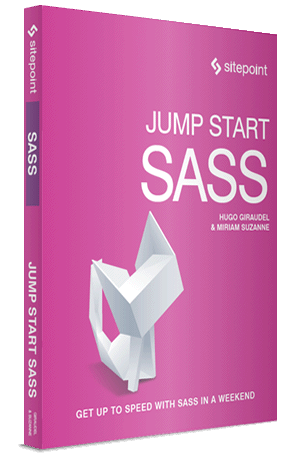
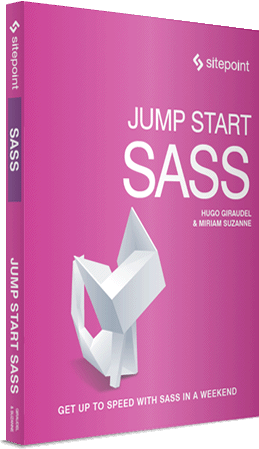
Final cleanup

diff --git a/static/sass/patterns/_buttons.scss b/static/sass/patterns/_buttons.scss
@@ -5,6 +5,7 @@
   &,
   #{$link} {
     @include font-family('alt');
+    align-items: center;
     background-color: color('background');
     background-image: none; // remove link underline when styling as button...
     border-color: color('action-border');
@@ -12,7 +13,7 @@
     border-style: solid;
     border-width: 1px;
     color: color('action');
-    display: inline-block;
+    display: inline-flex;
     font-weight: bold;
     padding: size('half-shim') 1rem;
     text-decoration: none;
@@ -29,10 +30,9 @@
     }
   }
 
-  @include after(' »') {
-    display: inline-block;
+  @include after('»') {
     font-weight: normal;
-    padding-left: size('quarter-shim');
+    padding-left: size('half-shim');
     transition: transform 250ms;
   }
 

diff --git a/static/sass/components/_contact.scss b/static/sass/components/_contact.scss
@@ -2,12 +2,20 @@
 // =======
 
 .contact-intro {
-  @include micro-clearfix;
-  margin-bottom: size('gutter');
+  align-items: center;
+  display: flex;
+
+  .bird-face {
+    display: none;
+    flex: 0 0 auto;
+
+    @include above('small-page') {
+      display: block;
+    }
+  }
 
   p {
-    &:first-of-type {
-      @include text-shadow;
-    }
+    flex: 1 1 auto;
+    margin: 0;
   }
 }

diff --git a/static/sass/components/_post-content.scss b/static/sass/components/_post-content.scss
@@ -16,13 +16,10 @@
 }
 
 .content-block-inner {
-  @supports (display: grid) {
-    grid-column: col1-start / -1;
+  grid-column: col1-start / -1;
 
-    @include above('medium-page') {
-      grid-column: col3-start / span 1;
-      max-width: size('full-content');
-    }
+  @include above('medium-page') {
+    grid-column: col3-start / span 1;
   }
 }
 

diff --git a/static/sass/components/_splash.scss b/static/sass/components/_splash.scss
@@ -89,3 +89,15 @@
 .splash-title {
   box-shadow: size('half-shim') size('half-shim') size('half-shim') color('shadow');
 }
+
+.jssass-book-cover {
+  float: left;
+  margin-right: size('pad');
+  max-width: 45%;
+}
+
+.jssass-book-summary {
+  @include above('small-page') {
+    padding-top: size('gutter');
+  }
+}

diff --git a/content/index.rst b/content/index.rst
@@ -135,32 +135,35 @@ Book: Jump Start Sass
 ---------------------
 
 .. image:: /static/images/pages/jssass.png
-   :class: extend-left size-quarter
+   :class: extend-left jssass-book-cover
 
-Sass bridges the gap between what CSS can offer
-and what we as web developers need in our daily routine.
-Using Sass, you can write your stylesheets
-in a more concise, dynamic, and readable way,
-and cut down many of the tedious repetitive tasks
-that come with writing vanilla CSS.
-Most importantly,
-Sass makes it easier to create web applications,
-takes some monotony and overhead out of writing CSS,
-and will save you time.
+.. wrap:: div
+  :class: jssass-book-summary
 
-This book,
-written by `Miriam Suzanne`_ and `Hugo Giraudel`_
-and published by `SitePoint`_,
-provides a comprehensive introduction to Sass for beginners.
+  Sass bridges the gap between what CSS can offer
+  and what we as web developers need in our daily routine.
+  Using Sass, you can write your stylesheets
+  in a more concise, dynamic, and readable way,
+  and cut down many of the tedious repetitive tasks
+  that come with writing vanilla CSS.
+  Most importantly,
+  Sass makes it easier to create web applications,
+  takes some monotony and overhead out of writing CSS,
+  and will save you time.
 
-.. _Miriam Suzanne: /birds/#bird-miriam
-.. _Hugo Giraudel: http://hugogiraudel.com/
-.. _SitePoint: https://www.sitepoint.com/premium/books/jump-start-sass
+  This book,
+  written by `Miriam Suzanne`_ and `Hugo Giraudel`_
+  and published by `SitePoint`_,
+  provides a comprehensive introduction to Sass for beginners.
 
-.. callmacro:: content.macros.j2#link_button
-  :url: '/contact/'
+  .. _Miriam Suzanne: /birds/#bird-miriam
+  .. _Hugo Giraudel: http://hugogiraudel.com/
+  .. _SitePoint: https://www.sitepoint.com/premium/books/jump-start-sass
 
-  Jump Start Your Project with OddBird
+  .. callmacro:: content.macros.j2#link_button
+    :url: '/contact/'
+
+    Jump Start Your Project with OddBird
 
 .. callmacro:: content.macros.j2#rst
   :tag: 'end'

diff --git a/content/contact/index.rst b/content/contact/index.rst
@@ -9,18 +9,22 @@ before:
     submit: 'Send!'
     next: 'contact/thanks/'
 summary: |
-  .. callmacro:: birds/utility.macros.j2#face
-    :author: 'miriam'
+  .. wrap:: div
+    :class: contact-intro
 
-  **We're always here and happy to talk** –
-  whether you have a project,
-  or a question,
-  or just want to say hi.
-  Send us a message
-  and `Miriam Suzanne`_, our co-founder,
-  will be in touch with you soon.
+    .. callmacro:: birds/utility.macros.j2#face
+      :author: 'miriam'
 
-  .. _Miriam Suzanne: /birds/#bird-miriam
+    **We're always happy to talk** –
+    whether you have a project in mind,
+    or just want to say hi.
+    Ask a question,
+    set up a (free) consultation,
+    or invite us to speak to your company or conference.
+    `Miriam Suzanne`_
+    will get back to you soon.
+
+    .. _Miriam Suzanne: /birds/#bird-miriam
 
 
 Start a Conversation
